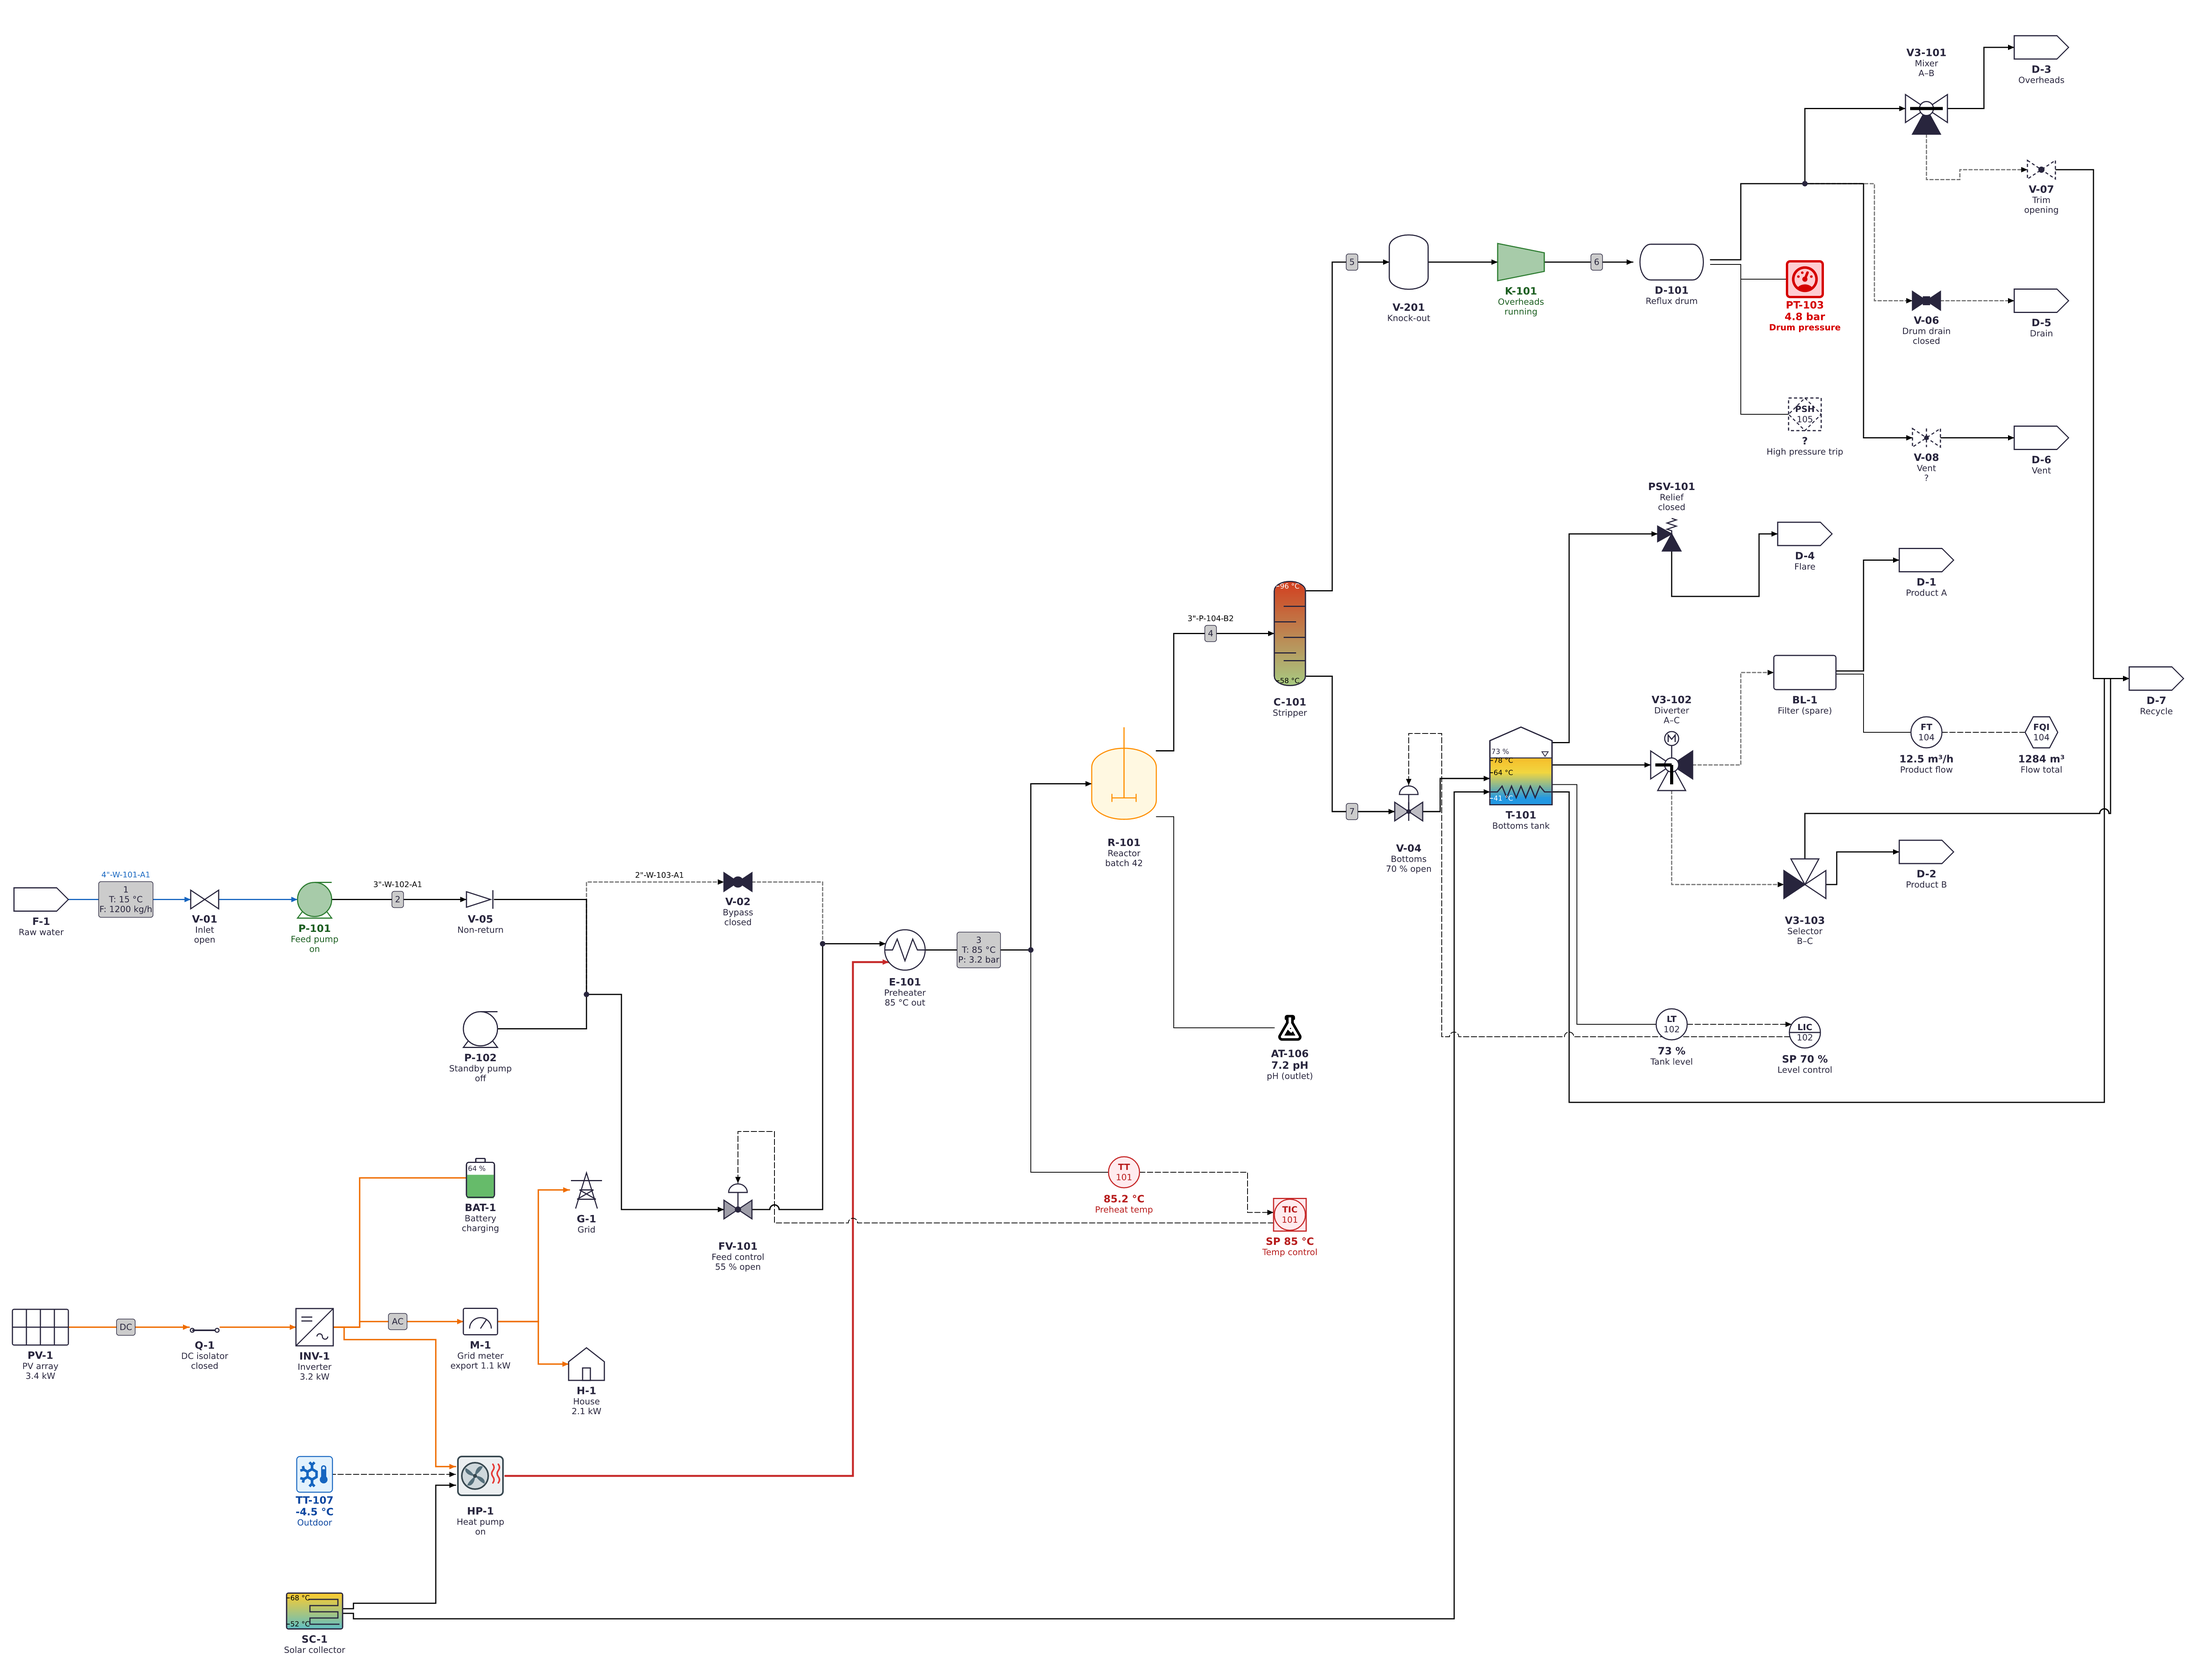
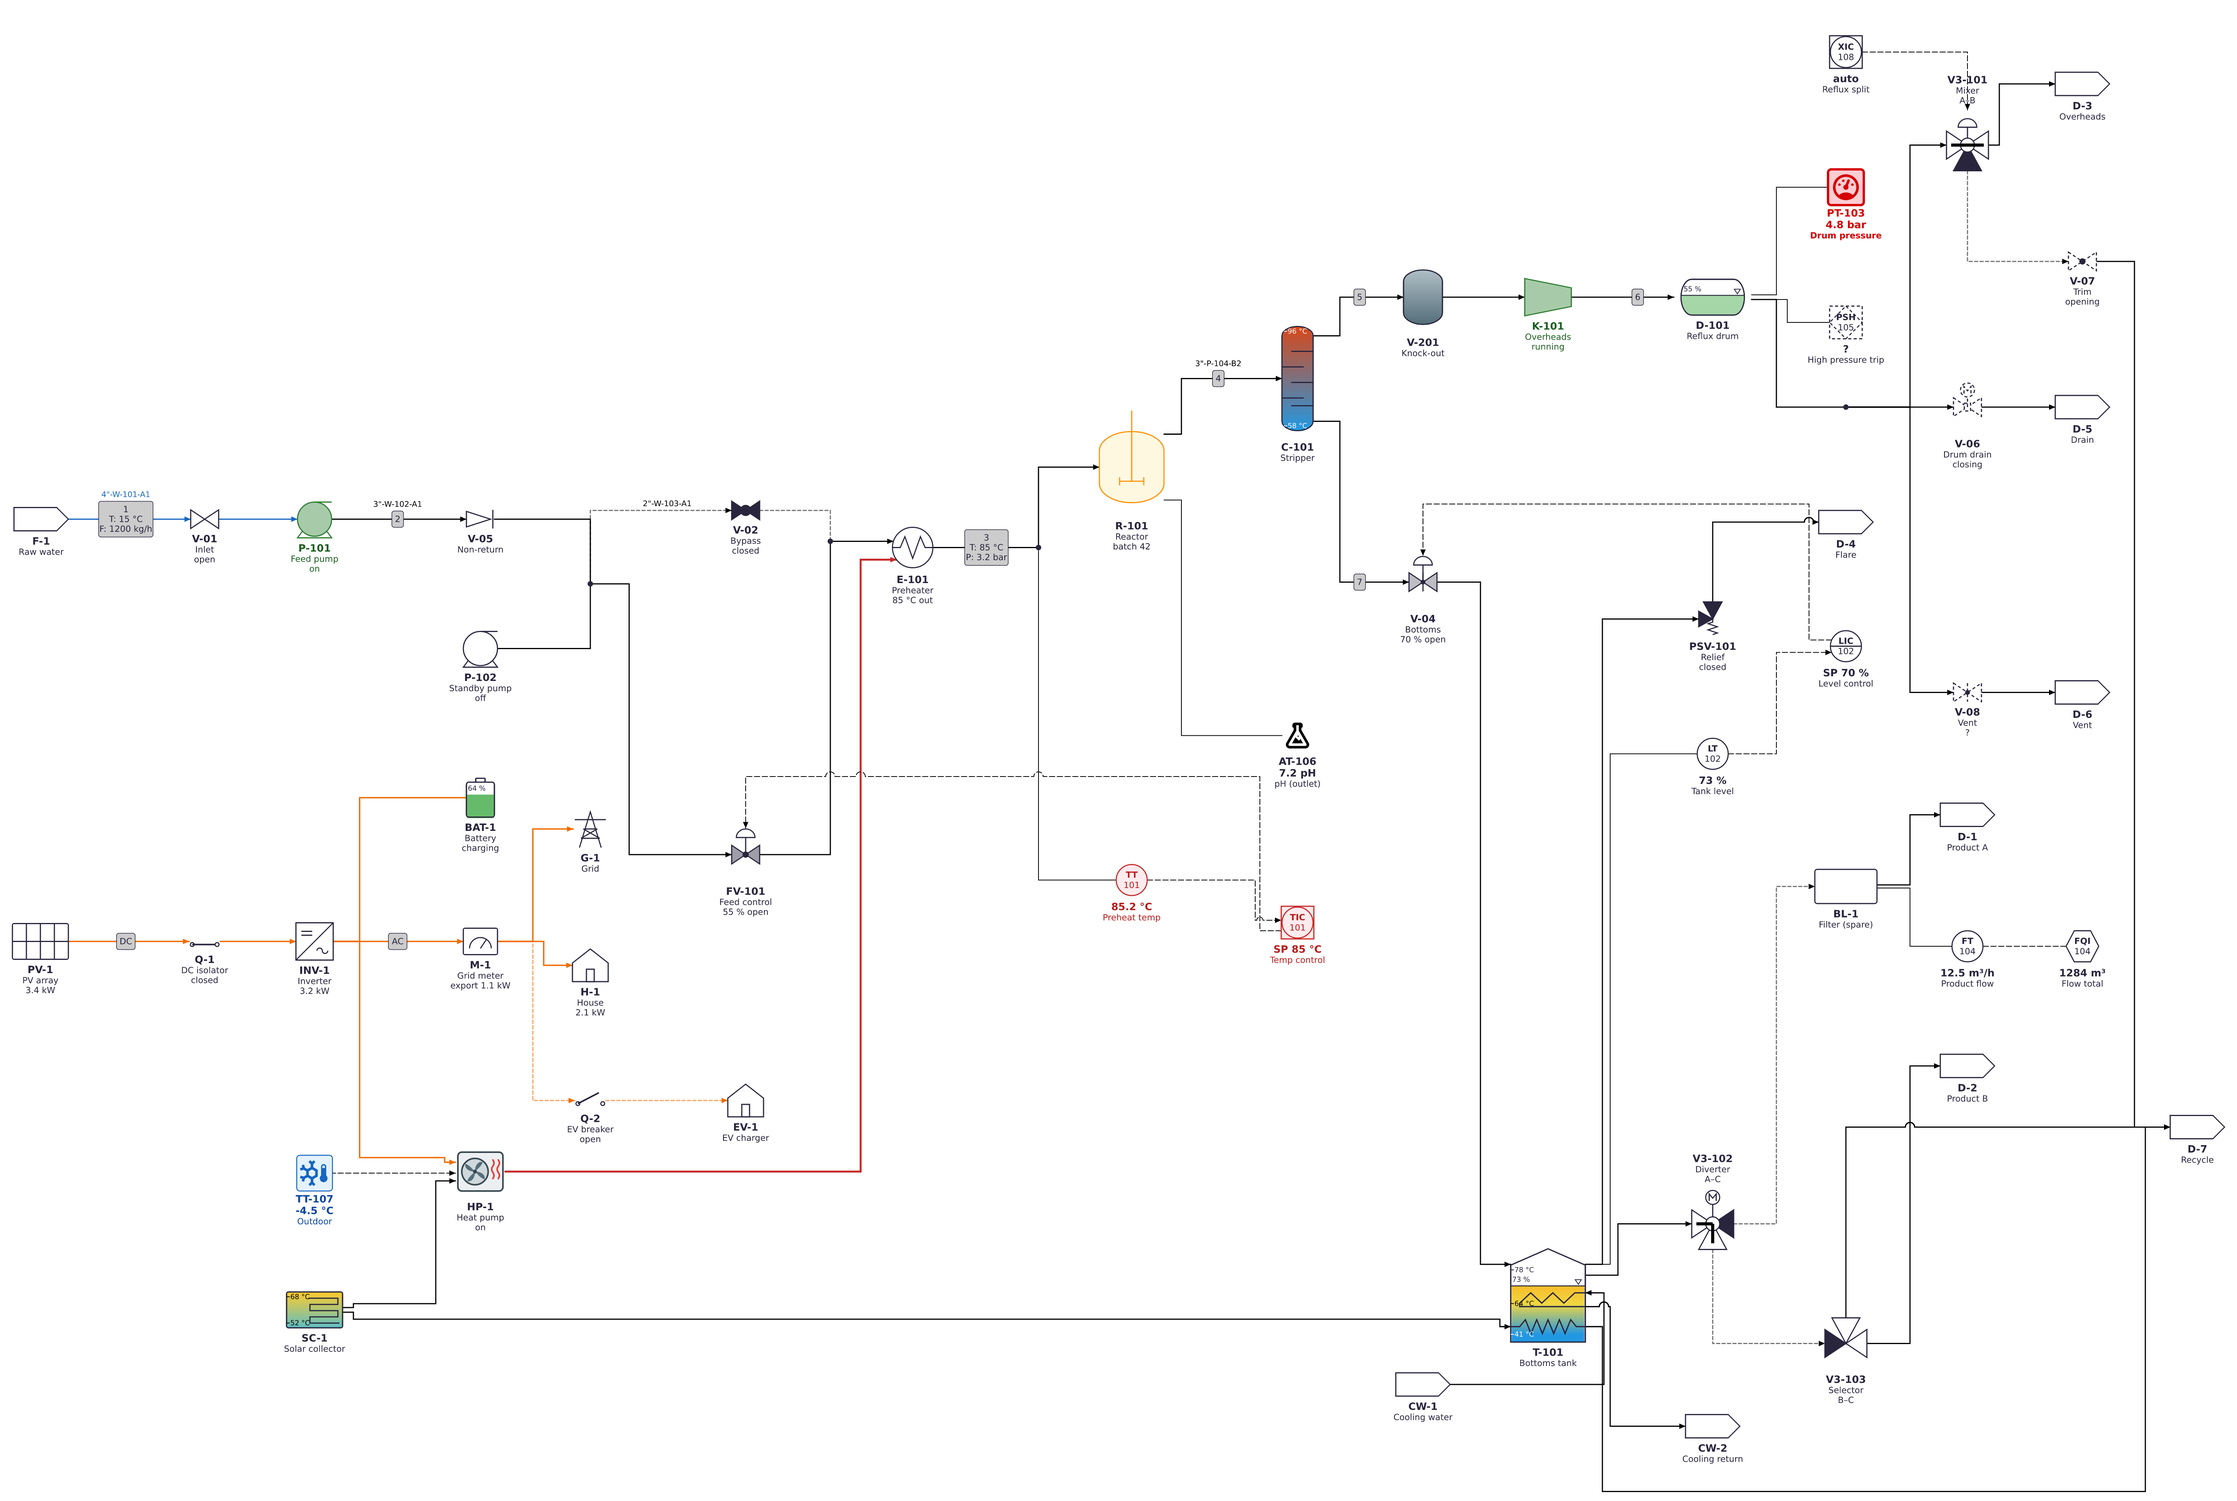
Update the all-capabilities example to every current capability
- Diagram: a motor on a 2-way valve, an explicit diaphragm, a signal
  driving a 3-way valve, an open breaker, the closing state, a second
  coil placed with @NN% and a named wall, gradient colour stops, a
  per-vessel gradient-range and a coloured level.
- Card YAML: brought level with the diagram (it lacked the coils,
  actuators and size), with templates for the new live values.
- Tests: the diagram must keep using every state kind, actuator variant
  and coil and gradient option; the card YAML must use every kind of
  statement and line the diagram does.

diff --git a/packages/ha-card/test/example-card.test.ts b/packages/ha-card/test/example-card.test.ts
@@ -21,7 +21,7 @@ const VALUES: Record<string, [string, Record<string, unknown>?]> = {
   'sensor.preheater_outlet_temp': ['85.3'],
   'sensor.reactor_batch': ['42'],
   'switch.compressor': ['on'],
-  'valve.drum_drain': ['closed'],
+  'valve.drum_drain': ['closing'],
   'valve.vent': ['unavailable'],
   'valve.bottoms': ['open', { current_position: 70 }],
   'binary_sensor.relief_lifted': ['off'],
@@ -57,6 +57,9 @@ const VALUES: Record<string, [string, Record<string, unknown>?]> = {
   'sensor.grid_power': ['-1.1'],
   'sensor.grid_power_abs': ['1.1'],
   'sensor.house_power': ['2.1'],
+  'select.reflux_mode': ['auto'],
+  'switch.ev_breaker': ['off'],
+  'sensor.reflux_drum_level': ['55'],
 };
 
 describe('examples/all-capabilities.card.yaml', () => {
@@ -65,6 +68,26 @@ describe('examples/all-capabilities.card.yaml', () => {
     expect(config.type).toBe('custom:pid-card');
     const used = extractReferencedEntities(config.content);
     expect(used.filter((e: string) => !(e in VALUES))).toEqual([]);
+  });
+
+  it('uses every kind of statement and line the all-capabilities diagram does', () => {
+    const config = parse(readFileSync(file, 'utf8'));
+    const mmd = readFileSync(`${import.meta.dirname}/../../../examples/all-capabilities.mmd`, 'utf8');
+    const kinds = (text: string) => {
+      const found = new Set<string>();
+      for (const raw of text.split('\n')) {
+        const line = raw.trim();
+        if (!line || line.startsWith('%%')) continue;
+        const word = /^(classDef|class|style|linkStyle|pipe|stream|gradient-range|gradient-marks|gradient|level|coil|actuator|size|image|icon|title)\b/.exec(line);
+        if (word) found.add(word[1]!);
+        for (const op of ['-->', '---', '-.->', '-.-', '==>', '===']) if (line.includes(` ${op}`)) found.add(op);
+        const decl = /^[A-Za-z][\w.-]*\s*:\s*([a-z0-9]+)/.exec(line);
+        if (decl) found.add(`type:${decl[1]}`);
+      }
+      return found;
+    };
+    const missing = [...kinds(mmd)].filter((k) => !kinds(config.content).has(k));
+    expect(missing).toEqual([]);
   });
 
   it('renders live values, alarm colours and clickable equipment without errors', async () => {
@@ -98,6 +121,10 @@ describe('examples/all-capabilities.card.yaml', () => {
       expect(svg).toContain('3.4 kW');
       expect(svg).toContain('export 1.1 kW');
       expect(svg).toContain('blade blade-closed');
+      expect(svg).toContain('blade blade-open'); // the EV breaker is off
+      expect(svg.match(/class="coil coil\d"/g)).toHaveLength(2);
+      expect(svg).toContain('55 %');
+      expect(svg).toContain('closing');
       expect(svg).toContain('href="/local/assets/heat-pump.png"');
       expect(svg.match(/class="custom-icon"/g)).toHaveLength(3);
       const clickable = [...root.querySelectorAll('.clickable')].map((el) => el.getAttribute('data-id'));

diff --git a/packages/diagram-pid/test/render.test.ts b/packages/diagram-pid/test/render.test.ts
@@ -214,6 +214,18 @@ describe('all-capabilities example', () => {
     expect(eq.find((e) => e.id === 'AT-106')?.name).toBe('pH (outlet)');
     expect(eq.some((e) => e.gradient) && eq.some((e) => e.level)).toBe(true);
     expect(eq.some((e) => e.coils) && model.streams.some((s) => s.targetCoil !== undefined) && eq.some((e) => e.size)).toBe(true);
+    // The newer statements and their variants, so the example keeps showing all of them.
+    const coils = eq.flatMap((e) => e.coils ?? []);
+    expect(coils.some((c) => c.side) && coils.some((c) => ![0.2, 0.5, 0.8].includes(c.height))).toBe(true);
+    expect(new Set(eq.flatMap((e) => (e.actuator ? [`${e.type}:${e.actuator}`] : [])))).toEqual(
+      new Set(['valve:motor', 'valve:diaphragm', 'valve3:motor']),
+    );
+    expect(eq.some((e) => e.type === 'valve3' && e.actuated && !e.actuator)).toBe(true); // driven by a signal
+    expect(new Set(eq.flatMap((e) => (e.state ? [e.state.kind] : [])))).toEqual(
+      new Set(['position', 'ports', 'opening', 'closing', 'on', 'off', 'unknown', 'text']),
+    );
+    expect(eq.find((e) => e.type === 'breaker' && e.state?.raw === 'open')).toBeDefined();
+    expect(eq.some((e) => e.gradient?.some((st) => st.color)) && eq.some((e) => e.gradientRange) && eq.some((e) => e.level?.color)).toBe(true);
   });
 });
 
